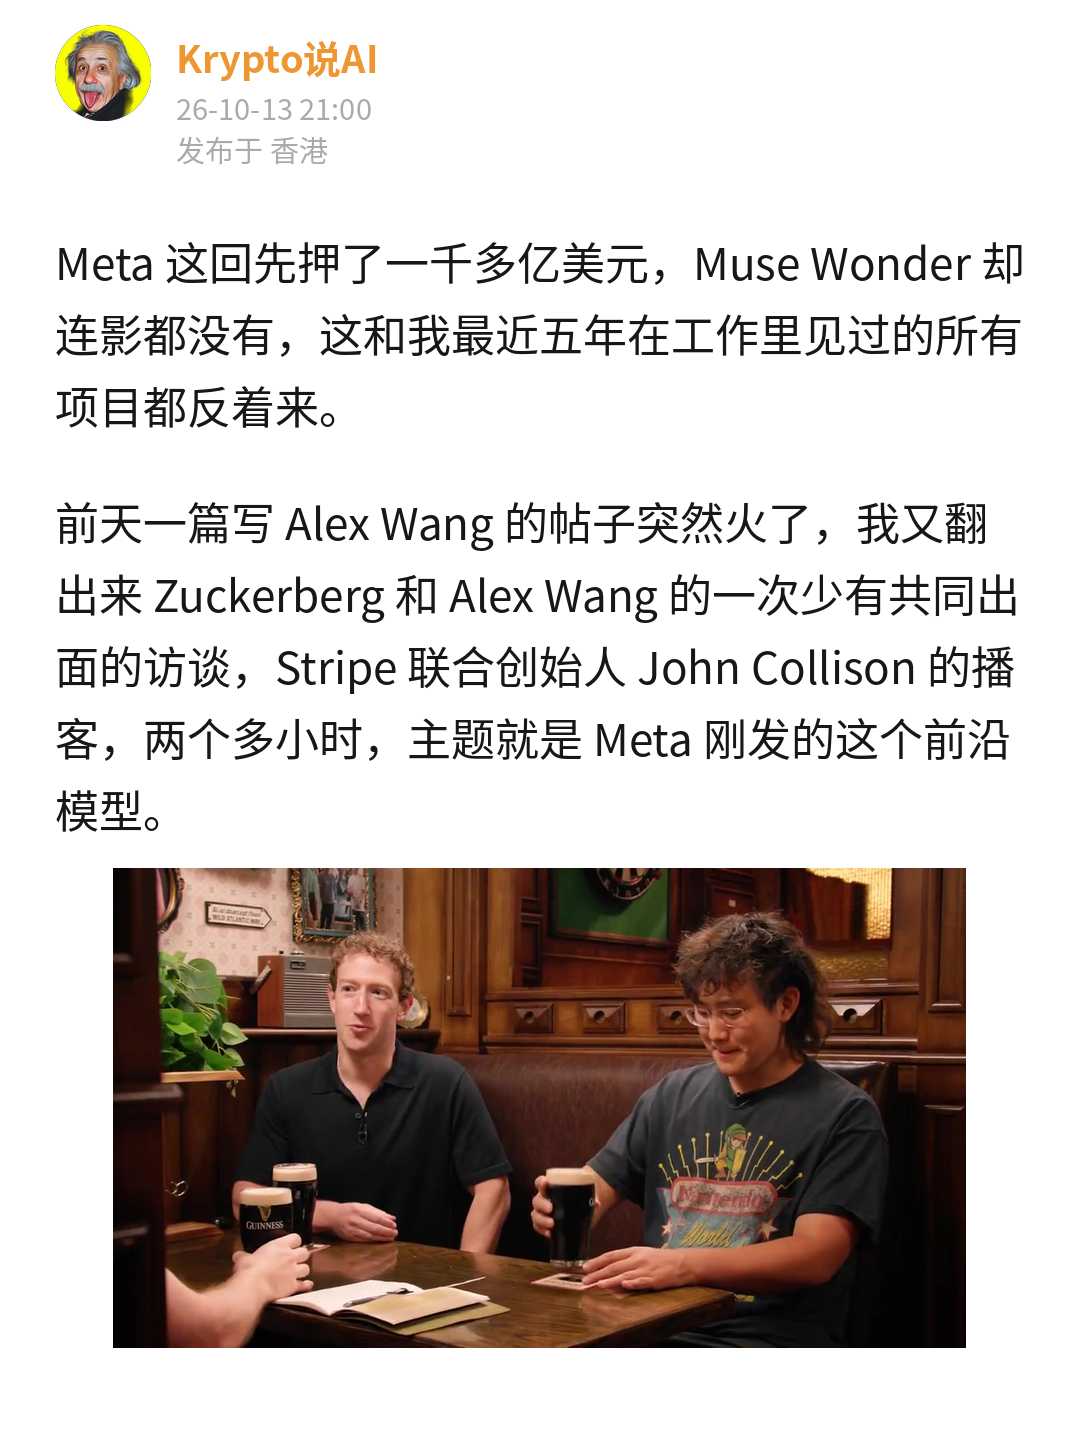
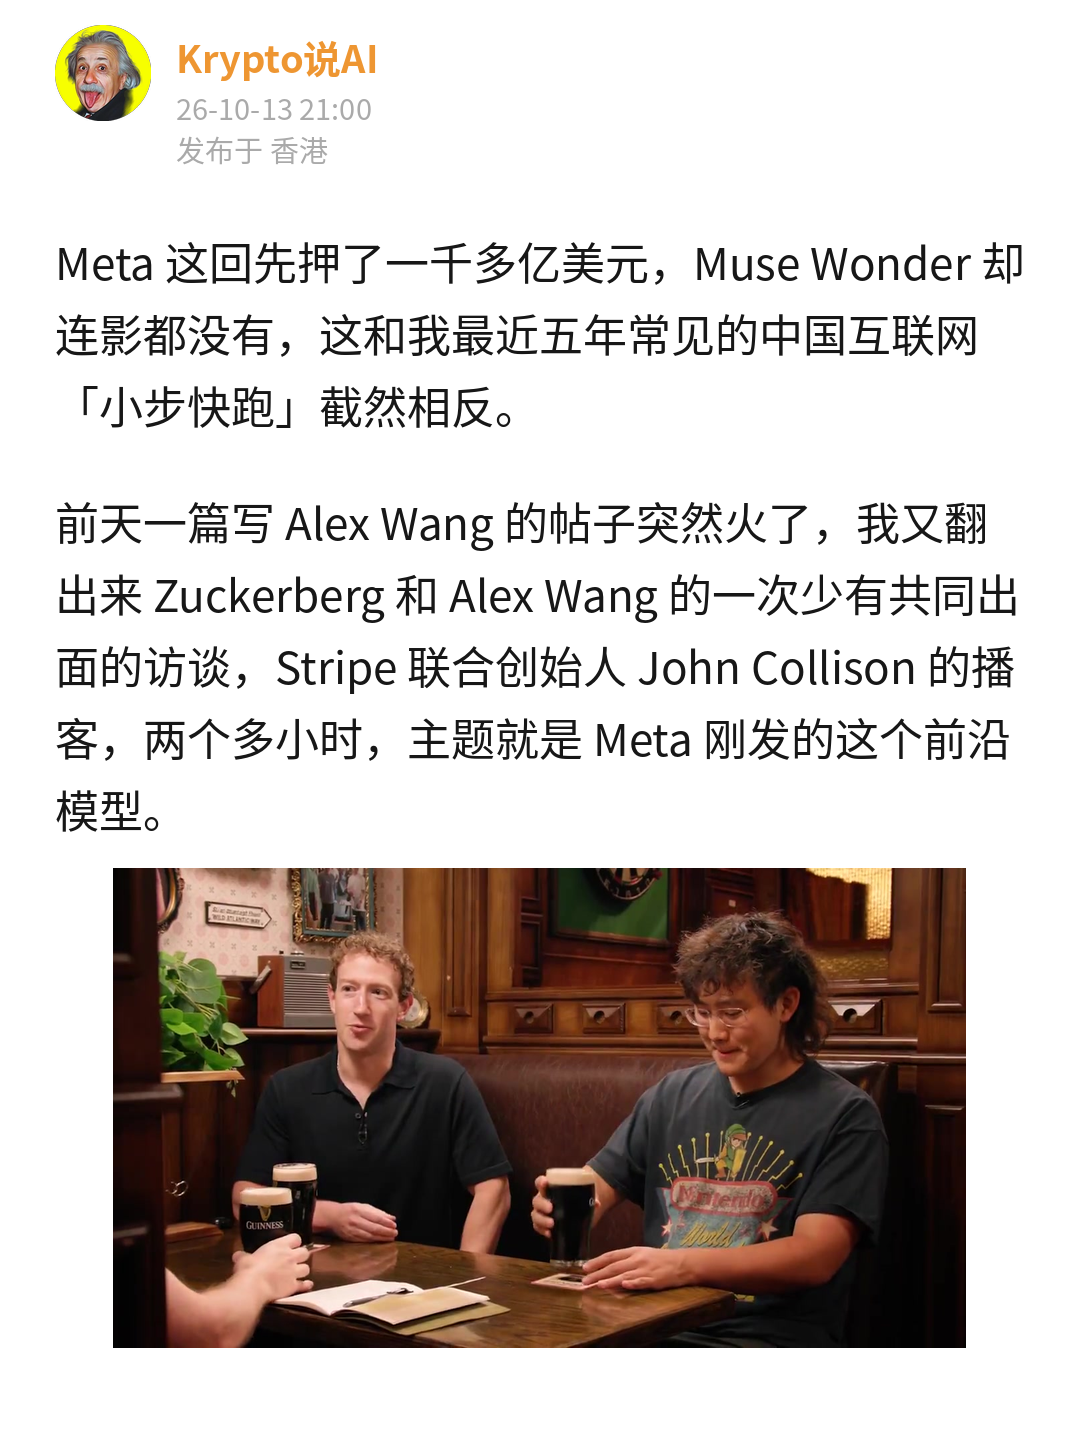
10-13 Muse Wonder 稿：第一句改成「和中国互联网小步快跑截然相反」（用户原意）
Claude-Session: https://claude.ai/code/session_01U7qz4eSZJWs6Xuu86S4WTN

Changed region(s): [[0.0611, 0.25, 0.4583, 0.3125], [0.5806, 0.2188, 0.9472, 0.25]]

diff --git a/发布/2026-10-13_zuck-wang-muse-wonder/meme版/编辑用/draft.md b/发布/2026-10-13_zuck-wang-muse-wonder/meme版/编辑用/draft.md
@@ -12,7 +12,7 @@ location: 香港
 account: Krypto说AI
 ---
 
-Meta 这回先押了一千多亿美元，Muse Wonder 却连影都没有，这和我最近五年在工作里见过的所有项目都反着来。
+Meta 这回先押了一千多亿美元，Muse Wonder 却连影都没有，这和我最近五年常见的中国互联网「小步快跑」截然相反。
 
 前天一篇写 Alex Wang 的帖子突然火了，我又翻出来 Zuckerberg 和 Alex Wang 的一次少有共同出面的访谈，Stripe 联合创始人 John Collison 的播客，两个多小时，主题就是 Meta 刚发的这个前沿模型。
 
